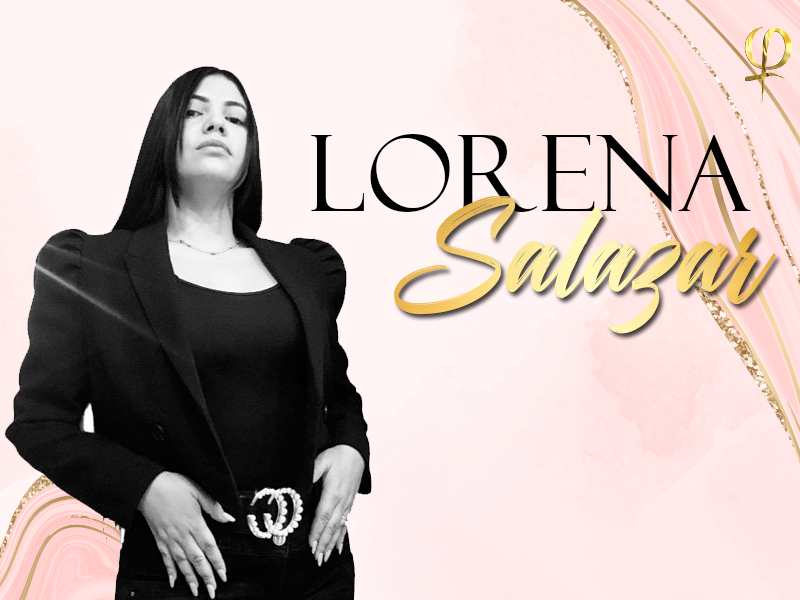
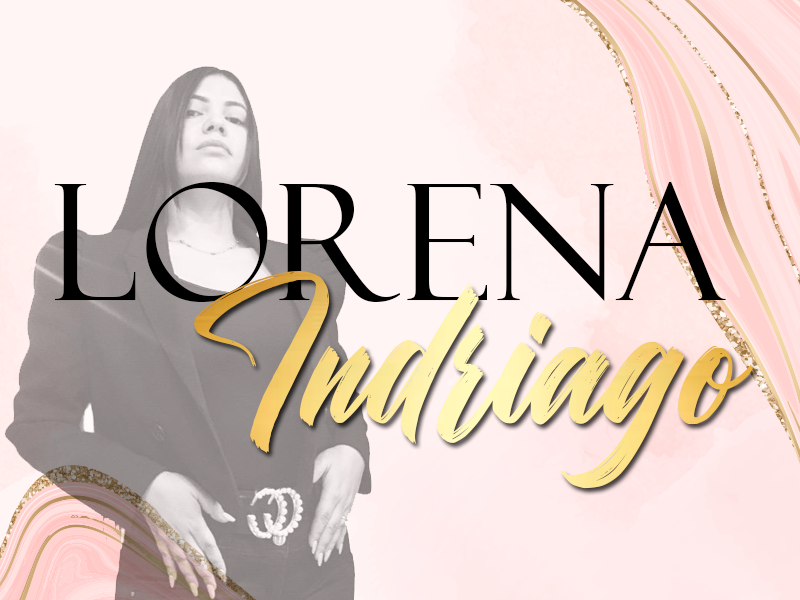
Actualizacion imagenes

diff --git a/index.html b/index.html
@@ -3,11 +3,11 @@
 <head>
   <meta charset="utf-8">
   <meta content="width=device-width, initial-scale=1.0" name="viewport">
-  <title>LORENA SALAZAR</title>
+  <title>LORENA INDRIAGO</title>
   <meta content="" name="description">
   <meta content="" name="keywords">
   <!-- Favicons -->
-  <link href="assets/img/favicon.ico" rel="icon">
+  <link href="assets/img/icon.jpg" rel="icon">
   <link href="assets/img/apple-touch-icon.png" rel="apple-touch-icon">
   <!-- Google Fonts -->
   <link href="https://fonts.googleapis.com/css?family=Open+Sans:300,300i,400,400i,600,600i,700,700i|Playfair+Display:ital,wght@0,400;0,500;0,600;0,700;1,400;1,500;1,600;1,700|Poppins:300,300i,400,400i,500,500i,600,600i,700,700i" rel="stylesheet">
@@ -346,7 +346,7 @@
               <img src="assets/img/LORENA2.png" class="img-fluid" alt="">
               <div class="member-info">
                 <div class="member-info-content">
-                  <h4>Lorena Salazar</h4>
+                  <h4>Lorena Indriago</h4>
                   <span>Instructora</span>
                 </div>
                 <div class="social">
@@ -421,7 +421,7 @@
 
           <div class="col-lg-3 col-md-6">
             <div class="footer-info">
-              <h3>Lorena Salazar</h3>
+              <h3>Lorena Indriago</h3>
               <p>
                 Oakley, California<br><br>
                 <strong>Telefono:</strong> +1 (939) 335-7992<br>
@@ -455,7 +455,7 @@
 
     <div class="container">
       <div class="copyright">
-        &copy; Copyright <strong><span>Lorena Salazar</span></strong>. All Rights Reserved
+        &copy; Copyright <strong><span>Lorena Indriago</span></strong>. All Rights Reserved
       </div>
   </footer><!-- End Footer -->
 

diff --git a/assets/css/style.css b/assets/css/style.css
@@ -345,6 +345,8 @@ h1, h2, h3, h4, h5, h6 {
 .navbar-mobile ul {
   display: block;
   position: absolute;
+  width: 100%;
+  height: 50%;
   top: 55px;
   right: 15px;
   bottom: 15px;
